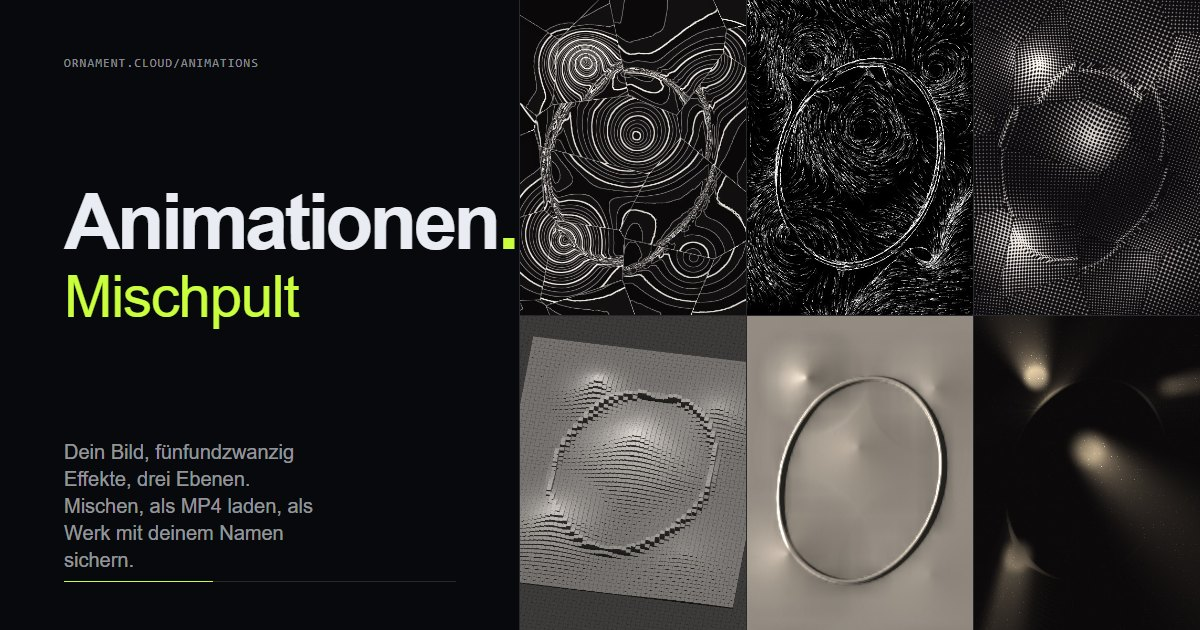
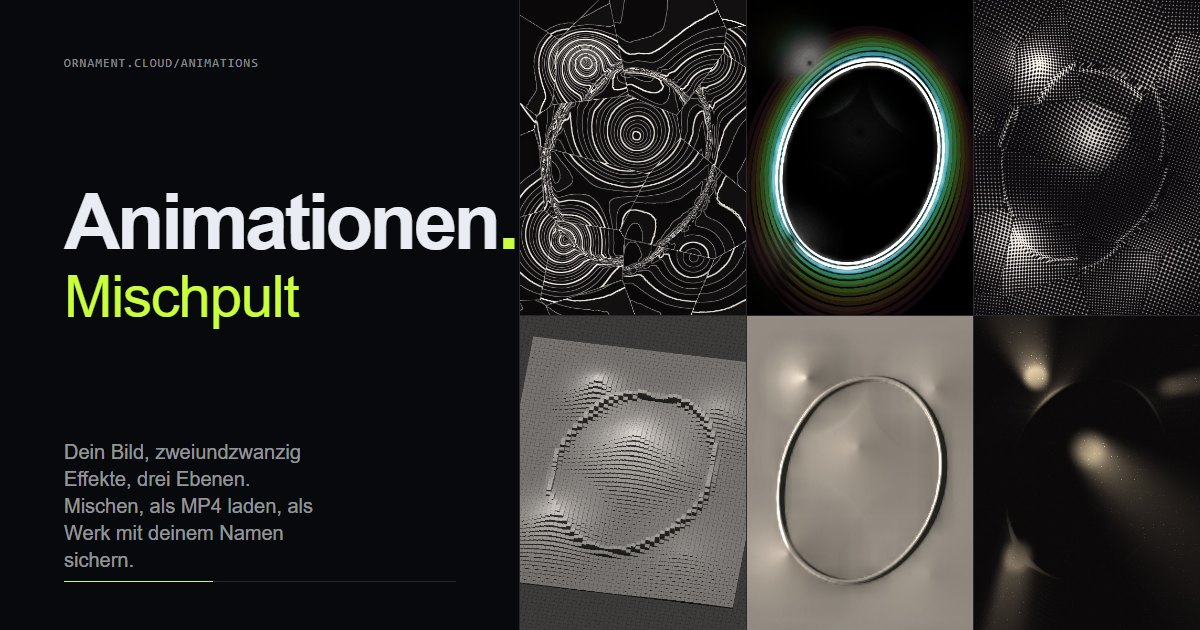
Animationen: Traube, Physarum und Strömung entfernt
Wunsch vom 5. November 2026: «weg können traube, physarum (nicht: physarum-struktur), strömung». Physarum-Struktur bleibt. 22 Effekte;
Zahl in Kopfzeile, Info, Meta und Vorschaukarte auf zweiundzwanzig, Vorschaukarte neu gerechnet (Echo statt Strömung als Kachel),
Tests auf 22, Versionsmarke ?v=18 (baut auf #640 mit ?v=17 auf).

Changed region(s): [[0.6167, 0.0, 0.8325, 0.5127], [0.1233, 0.6937, 0.2467, 0.754]]

diff --git a/animations/effekte.js b/animations/effekte.js
@@ -277,6 +277,7 @@ export const EFFEKTE = {
   // Metaballs, Wirbel, Linien, Tuscheblasen, Glaslinsen, Röntgen-Scan und Papierriss entfernt am 5. November 2026
   // (Wunsch: «also wir nehme jetzt wieder raus: metaballs, wirbel, linien, tuscheblasen, glaslinsen, röntgenstrahl, papierriss»)
   // Alkoholtinte entfernt am 5. November 2026 (Wunsch: «alkoholtine kann raus»)
+  // Traube, Physarum und Strömung entfernt am 5. November 2026 (Wunsch: «weg können traube, physarum (nicht: physarum-struktur), strömung»)
 
   raster: {
     name: "Druckraster", herkunft: "Halbton: vier gedrehte Raster wie im Offsetdruck, Punkte verschmelzen als Distanzfelder im Dunkeln und atmen in Wellen",
@@ -376,37 +377,6 @@ vec4 effekt(vec2 uv){
 }`,
   },
 
-  stroemung: {
-    name: "Strömung", herkunft: "Flow Field: Lichtteilchen ziehen mit Schweif den Konturen des Bildes nach, wo Kanten sind, sammeln sie sich",
-    regler: [r("Dichte", .5), r("Tempo", .4), r("Punktgrösse", .35), r("Wirbel", .3), r("Kanten", .6)],
-    mischung: "add",
-    // die Zahl der Teilchen folgt der Bildhöhe (kleine Vorschauen rechnen weniger), je Teilchen acht Punkte für den Schweif
-    punkte: (w, a, h, d = 1) => { const c = Math.max(d < 1 ? 24 : 40, Math.round((110 + 100 * w[0]) * Math.sqrt(Math.min(1, h / 1000) * d))); return { cols: c * 8, rows: Math.round(c / a) }; },
-    glsl: `${FELD}
-void punkt(int id, out vec2 pos, out vec4 col, out float size){
-  float i = float(id), cx = uCols / 8., xx = mod(i, uCols), j = mod(xx, 8.);
-  vec2 g = vec2(floor(xx / 8.), floor(i / uCols));
-  float h = h12(g * 1.31 + uSeed), m = 2. + floor(P1 * 2.999);           // zwei bis vier Leben pro Schlaufe
-  float zz = uT * m + h, u = fract(zz), cyc = mod(floor(zz), m);         // das Leben n und n + m sind dasselbe: die Schlaufe schliesst
-  vec2 sp = (g + h22(g + cyc * 17.3 + uSeed)) / vec2(cx, uRows);
-  vec3 c0 = Kl(sp, 1.).rgb; float L0 = lum(c0), ek = length(feldG(sp, 1.5, 3.));
-  float wgt = mix(.25 + .75 * (1. - L0), smoothstep(1., 14., ek), P4);  // wo Teilchen entstehen: im Dunklen oder an Kanten
-  pos = vec2(9.); col = vec4(0.); size = 0.;
-  if (h12(g * 2.7 + cyc * 3.1 + 5.) > wgt) return;
-  float age = max(u - j * .022, 0.), steps = age * 18.;
-  vec2 q = P(sp), sl = vec2(.18 / 18.);
-  for (int k = 0; k < 18; k++){
-    float dt = clamp(steps - float(k), 0., 1.);
-    if (dt <= 0.) break;
-    q += dt * sl * strom(UV(q), 1.5, 3., P3);
-  }
-  pos = q;
-  float a = sin(PI * u) * (1. - j / 8.) * (age > 0. ? 1. : 0.);
-  vec3 c = uZeigen > .5 ? min(c0 * 1.4 + .05, 1.) : vec3(.95, .925, .9);   // ohne Bild: helles Licht, die Form kommt aus dem Bild
-  col = vec4(c * a * 1.2, a);
-  size = mix(1.5, 5., P2) * uRes.y / 1350. * (1. - j / 12.) + .6;
-}`,
-  },
   // ——— drei weitere nach Christians Stichworten vom 4. November 2026: «röntgen/laserscan, krasse montagen, absolut aktuelle prozess-visualisierung»
 
 
@@ -888,141 +858,7 @@ void punkt(int id, out vec2 pos, out vec4 col, out float size){
 }`,
   },
 
-  traube: {
-    name: "Traube", herkunft: "PHORMA III: glänzende Perlen wachsen auf den hellen Formen des Bildes zu Trauben, dazwischen ein Knäuel aus feinen Fäden, Rauch und ein wandernder Schärfenzug",
-    // seit 5. November 2026 (Christian: «beim effekt traube gibt es keine bewegung … noch etwas mehr spiegelung in den einzelnen trauben wäre toll»):
-    // das Licht kreist einmal je Schlaufe um die Trauben, sodass der Glanz über jede Perle wandert; die Perlen wiegen sich wie hängende Trauben
-    // (kleiner Kreis je Perle plus das langsame Rauschen) und wachsen bei «Hin und zurück» gestaffelt aus den Formen; jede Perle spiegelt ihre
-    // Umgebung (das Bild, gespiegelt und verkleinert), dazu ein zweiter Glanzpunkt, ein weicher Fensterfleck und ein heller Rand
-    regler: [r("Perlen", .55), r("Grösse", .6), r("Schwelle", .35), r("Fäden", .5), r("Schärfe", .35), r("Rot", .7)],
-    glsl: `vec4 effekt(vec2 uv){
-  vec2 p = P(uv); float px = 1. / uRes.y;
-  float N = mix(14., 46., P0), zf = (uLauf > .5 ? ln(vec2(2.3, 5.1), .6) : sin(uPhi)) * .9;   // die Schärfeebene zieht durch die Tiefe
-  float env = HZ(.5 - .5 * cos(uPhi));                       // Hin und zurück: die Trauben wachsen aus dem Bild und ziehen sich zurück
-  vec3 rot1 = vec3(.62, .03, .05), silber = vec3(.82, .84, .88);
-  // Licht: kreist einmal je Schlaufe, dazu ein zweites, kleineres Fensterlicht gegenüber
-  vec3 Ld = normalize(vec3(.8 * cos(uPhi), .8 * sin(uPhi) + .2, .62));
-  vec3 L2 = normalize(vec3(-.6 * cos(uPhi + 2.3), -.6 * sin(uPhi + 2.3), .95));
-  // Hintergrund: Rauch und ein Knäuel aus Fäden, dicht, wo das Bild Formen hat; die Fäden treiben auf einem kleinen Kreis durch die Schlaufe
-  vec3 k5 = Kl(uv, 5.).rgb; float form = smoothstep(.12, .55, lum(k5) + .6 * sat(k5));
-  float rauch = smoothstep(-.2, .7, lfbm(p * 2.2 + 3., .5)) * (.25 + .75 * form);
-  vec3 col = vec3(.035, .03, .035) + vec3(.07, .06, .065) * rauch;
-  if (uZeigen > .5) col += Ql(uv, 1.).rgb * .14;
-  float fd = 0.;
-  for (int l = 0; l < 3; l++){
-    if (uSparsam > .5 && l > 1) break;                      // Handy: zwei Lagen Fäden statt drei
-    float fl = float(l);
-    vec2 q = p + .18 * vec2(cos(uPhi + fl * 2.), sin(uPhi + fl * 2.));
-    float v = ln(rot(fl * 2.1) * q * (2.2 + fl * 1.3) + fl * 7., .7 + fl * .2);
-    float e = abs(v) / max(fwidth(v), 1e-4);
-    fd += (1. - smoothstep(.2, 1.1, e)) * (.55 - fl * .12);
-  }
-  col += silber * fd * P3 * (.15 + .85 * form) * .55;
-  // die Perlen: je Zelle eine, gross, wo das Bild hell oder farbig ist; nach Tiefe sortiert, hinten zuerst
-  vec2 g = p * N, ci = floor(g);
-  vec4 pl[9]; vec3 pc[9]; int n = 0;
-  for (int y = -1; y <= 1; y++) for (int x = -1; x <= 1; x++){
-    vec2 c = ci + vec2(x, y), h = h22(c + uSeed * 5.3);
-    vec3 im = Kl(UV((c + .5) / N), 2.).rgb;
-    float fo = .45 * lum(im) + (uSparsam > .5 ? .35 * lum(im) : 2.2 * abs(lum(im) - lum(Kl(UV((c + .5) / N), 5.).rgb))) + .5 * sat(im);   // Handy: ohne den zweiten Blick ins Umfeld   // Form: hell, farbig oder abgesetzt vom Umfeld
-    float th = mix(.2, .9, P2), v = smoothstep(th - .12, th + .12, fo) * step(.08, h12(c * 1.9 + 4.));   // Perlen nur auf den Formen, die Fläche bleibt frei
-    if (v < .02) continue;
-    float hr = h12(c + 7.);
-    float wach = smoothstep(h.x * .5, h.x * .5 + .4, env);  // gestaffelt: jede Perle hat ihren Moment zum Wachsen; im Durchlauf sind alle da
-    float pul = .5 + .5 * sin(uPhi * floor(1. + h.y * 2.) + h.x * TAU);
-    vec2 schwung = vec2(cos(uPhi + h.x * TAU), sin(uPhi + h.x * TAU)) * (.05 + .1 * hr);   // hängende Trauben wiegen sich, jede auf ihrem Kreis
-    vec2 m = c + .5 + (h - .5) * .7 + .2 * vec2(ln(c * .3, .8), ln(c * .3 + 4., .8)) + schwung;
-    float R = min((.22 + .5 * hr * hr) * mix(.6, 1.5, P1) * (.55 + .45 * v) * (1. + .14 * pul), .95) * mix(.2, 1., wach);   // der Puls lässt sie schwellen
-    float z = (h.y - .5) * 2.4 + (lum(im) - .5) * .8;
-    pl[n] = vec4(m, R, z); pc[n] = im; n++;
-  }
-  for (int a = 0; a < 9; a++) for (int b = 0; b < 8; b++){
-    if (b + 1 >= n) break;
-    if (pl[b].w > pl[b + 1].w){ vec4 t = pl[b]; pl[b] = pl[b + 1]; pl[b + 1] = t; vec3 tc = pc[b]; pc[b] = pc[b + 1]; pc[b + 1] = tc; }
-  }
-  for (int k = 0; k < 9; k++){
-    if (k >= n) break;
-    vec2 d = g - pl[k].xy; float R = pl[k].z, dd = length(d);
-    float bl = abs(pl[k].w - zf) * (1. - P4) * .55 * R + N * px * 1.2;   // Tiefenschärfe: unscharf vor und hinter der Ebene
-    float cov = (1. - smoothstep(R - bl, R + bl, dd)) * R * R / ((R + bl * .5) * (R + bl * .5));
-    if (cov < .002) continue;
-    vec2 e = d / R; float r2 = min(dot(e, e), .999);
-    vec3 nn = vec3(e, sqrt(1. - r2));
-    vec3 basis = uZeigen > .5 ? mix(pc[k] / max(max(pc[k].r, max(pc[k].g, pc[k].b)), .1) * .7, rot1, P5) : mix(silber * .55, rot1, P5);
-    float dif = max(dot(nn, Ld), 0.);
-    vec3 rv = reflect(vec3(0., 0., -1.), nn);              // Blickrichtung an der Perle gespiegelt
-    float fres = pow(1. - nn.z, 3.5);                      // am Rand spiegelt Glas am stärksten, der Saum bleibt schmal
-    // Spiegelung der Umgebung: das Bild erscheint verkleinert und gespiegelt in jeder Perle (mit «Bild zeigen: aus» nur der Grund)
-    vec3 umg = Ql(UV((pl[k].xy + rv.xy * R * 1.6) / N), 1.5).rgb;
-    float sp = pow(max(dot(reflect(-Ld, nn), vec3(0., 0., 1.)), 0.), 64.);   // scharfer Glanzpunkt des wandernden Lichts
-    float sp2 = pow(max(dot(reflect(-L2, nn), vec3(0., 0., 1.)), 0.), 24.);  // zweites, weicheres Licht
-    float gl = pow(max(dot(reflect(-Ld, nn), vec3(0., 0., 1.)), 0.), 5.);
-    vec2 fw = (nn.xy - Ld.xy * .45) * rot(.7) / vec2(.42, .2);
-    float fenster = exp(-dot(fw, fw) * 1.8) * (.6 + .4 * nn.z);   // ein länglicher, weicher Lichtfleck wie ein Fenster im Glas
-    vec3 tinte = mix(vec3(1.), basis / max(max(basis.r, max(basis.g, basis.b)), .1), .55);   // die Spiegelung trägt die Farbe der Traube, sonst wirkt sie wie eine Seifenblase
-    vec3 pcol = basis * (.1 + .85 * dif) + basis * fres * .8 + silber * fres * .2
-      + umg * tinte * (.28 + .7 * fres) * (uZeigen > .5 ? 1. : .5)
-      + vec3(1.) * (sp * 1.8 + sp2 * .55 + gl * .14 + fenster * .38);
-    pcol *= mix(1., .55, smoothstep(0., .6, bl / R));       // unscharfe Perlen werden weicher und dunkler
-    col = mix(col, pcol, cov);
-  }
-  return vec4(clamp(col, 0., 1.), 1.);
-}`,
-  },
 
-  physarum: {
-    name: "Physarum", herkunft: "PHORMA II: tausende Agenten eines Schleimpilzes riechen die Nahrung im Bild (Helligkeit und Kanten) und legen ein leuchtendes Netz auf seine Formen",
-    // ruhiger seit 5. November 2026 (Christian: «Das physarum ist mir viel zu nervös»): die Agenten werden nicht mehr geboren und gelöscht,
-    // jeder Pfad steht und wandelt sich nur langsam (das Rauschen läuft auf einem kleinen Kreis durch die Zeit), Licht gleitet ruhig an ihm entlang,
-    // und das Netz wächst sanft aus den Keimen und zieht sich wieder zurück; «Tempo» regelt beides
-    regler: [r("Agenten", .5), r("Spur", .6), r("Nahrung", .7), r("Wandern", .3), r("Glühen", .5), r("Tempo", .2)],
-    mischung: "add", weich: true,
-    // je Agent 40 Punkte Spur; die Zahl folgt der Bildhöhe wie bei der Strömung. d: Dichte, auf Handys kleiner (motor.js, DICHTE_SPARSAM):
-    // die Physarum-Agenten tasten je Schritt neun Mal das Bild ab, mit allen Agenten hat das am 5. November 2026 die Grafik eines Handys umgeworfen
-    punkte: (w, a, h, d = 1) => { const c = Math.max(d < 1 ? 16 : 24, Math.round((40 + 50 * w[0]) * Math.sqrt(Math.min(1, h / 1000) * d))); return { cols: c * 40, rows: Math.round(c / a) }; },
-    glsl: `float nahrung(vec2 uv){
-  vec3 c = Kl(uv, 3.).rgb; float L = lum(c);
-  if (uSparsam > .5) return L;                              // Handy: nur die Helligkeit, ein Blick statt drei je Fühler
-  vec3 c2 = Kl(uv, 1.5).rgb, c3 = Kl(uv, 4.5).rgb;
-  return mix(L, abs(lum(c2) - lum(c3)) * 3. + L * .3, .45);   // hell und kantig ist Nahrung
-}
-void punkt(int id, out vec2 pos, out vec4 col, out float size){
-  float i = float(id), xx = mod(i, uCols), j = mod(xx, 40.), cx = uCols / 40.;
-  vec2 g = vec2(floor(xx / 40.), floor(i / uCols));
-  float h = h12(g * 1.71 + uSeed);
-  vec2 sp = (g + h22(g + uSeed)) / vec2(cx, uRows);          // jeder Agent hat seinen festen Keim
-  float S = mix(25., 70., P1), schritt = (j + .5) / 40. * S;  // die 40 Punkte liegen fest auf dem Pfad
-  float wachsen = mix(.3, 1., HZ(.5 - .5 * cos(uPhi)));       // das Netz wächst ruhig aus den Keimen und zieht sich zurück
-  float spitze = 1. - smoothstep(wachsen * S - 6., wachsen * S, schritt);
-  pos = vec2(9.); col = vec4(0.); size = 0.;
-  if (spitze <= 0.) return;
-  vec2 q = P(sp), dir = normalize(h22(g + 3.) - .5 + 1e-4);
-  float st = .0065, rz = mix(.04, .3, P5);                    // rz: wie schnell sich die Pfade wandeln
-  for (int k = 0; k < 70; k++){
-    float dt = clamp(schritt - float(k), 0., 1.);
-    if (dt <= 0.) break;
-    vec2 uq = UV(q);                                        // drei Fühler: geradeaus, links, rechts; drehen zum stärksten Geruch
-    float a0 = atan(dir.y, dir.x), sa = .55;
-    float F = nahrung(uq + vec2(cos(a0), sin(a0)) * .02 / vec2(A(), 1.));
-    float Lf = nahrung(uq + vec2(cos(a0 + sa), sin(a0 + sa)) * .02 / vec2(A(), 1.));
-    float Rf = nahrung(uq + vec2(cos(a0 - sa), sin(a0 - sa)) * .02 / vec2(A(), 1.));
-    float dreh = (Lf - Rf) * 14. * P2 + ln(q * 2. + 3.1, rz) * 1.2 * P3;
-    a0 += clamp(dreh, -.45, .45);                           // sanfte Kurven statt Zacken
-    dir = vec2(cos(a0), sin(a0));
-    q += dir * st * dt * (.7 + .6 * F);
-  }
-  pos = q;
-  float nf = nahrung(UV(q)), m = 1. + floor(P5 * 2.99);
-  float fluss = .7 + .3 * sin(TAU * (j / 40. * 2. - uT * m) + h * TAU);   // langsamer Plasmastrom entlang des Pfads
-  float a = spitze * fluss * smoothstep(0., 4., schritt) * (.25 + .75 * smoothstep(.1, .6, nf));
-  vec3 gold = vec3(1., .78, .3);
-  vec3 c = uZeigen > .5 ? mix(gold, min(Kl(UV(q), 1.).rgb * 1.6 + .06, 1.), .7) : gold;   // ohne Bild: das gelbe Netz, die Formen kommen aus dem Bild
-  float ab = S / 40. * st * uRes.y, sz = max(mix(1.6, 3.6, P4) * uRes.y / 1350. + .6, ab * 3.);   // weiche Punkte, dicht genug für eine glatte Linie
-  float al = a * (.035 + .07 * P4) * min(1., 2.5 * max(ab, 1.) / sz);   // alle Agenten leuchten zugleich: jeder nur leise, das Netz entsteht, wo viele Pfade zusammenlaufen
-  col = vec4(c * al * 1.4, al);
-  size = sz;
-}`,
-  },
   geflecht: {
     name: "Physarum-Struktur", herkunft: "PHORMA II weitergedacht: der Schleimpilz als Struktur statt als Spur – Netz, Adern, Zellen oder Membran, je dichter, wo das Bild Nahrung bietet",
     // Wunsch vom 5. November 2026: «varianten der strukturbildung …, nicht nur diese leuchten spuren»; der Regler «Struktur» geht von Netz (0)

diff --git a/animations/index.html b/animations/index.html
@@ -23,20 +23,20 @@ Steht für sich wie PHORMA (Ausnahme in tests/navigation.test.mjs), noindex, nic
 Rechnet alles im Browser (WebGL 2, motor.js), das MP4 (1080 × 1350, 30 fps, 12 s, nahtlose Schlaufe) mit WebCodecs und mp4-muxer aus vendor/.
 -->
 <meta name="robots" content="noindex">
-<meta name="description" content="Dein Bild, fünfundzwanzig Effekte, drei Ebenen: Animationen mischen, als MP4 laden und als Werk mit deinem Namen sichern.">
+<meta name="description" content="Dein Bild, zweiundzwanzig Effekte, drei Ebenen: Animationen mischen, als MP4 laden und als Werk mit deinem Namen sichern.">
 <meta property="og:type" content="website">
 <meta property="og:site_name" content="ornament.cloud">
 <meta property="og:locale" content="de_CH">
 <meta property="og:url" content="https://ornament.cloud/animations/">
 <meta property="og:title" content="Animationen">
-<meta property="og:description" content="Dein Bild, fünfundzwanzig Effekte, drei Ebenen: Animationen mischen, als MP4 laden und als Werk mit deinem Namen sichern.">
+<meta property="og:description" content="Dein Bild, zweiundzwanzig Effekte, drei Ebenen: Animationen mischen, als MP4 laden und als Werk mit deinem Namen sichern.">
 <meta property="og:image" content="https://ornament.cloud/animations/og-animationen.jpg">
 <meta property="og:image:width" content="1200">
 <meta property="og:image:height" content="630">
 <meta property="og:image:alt" content="Animationen auf ornament.cloud: links das Wort «Animationen» mit gelbgrünem Punkt, rechts sechs Effekte aus Höhenlinien, Strömung, Druckraster und Voxeln auf Schwarz.">
 <meta name="twitter:card" content="summary_large_image">
 <meta name="twitter:title" content="Animationen">
-<meta name="twitter:description" content="Dein Bild, fünfundzwanzig Effekte, drei Ebenen: Animationen mischen, als MP4 laden und als Werk mit deinem Namen sichern.">
+<meta name="twitter:description" content="Dein Bild, zweiundzwanzig Effekte, drei Ebenen: Animationen mischen, als MP4 laden und als Werk mit deinem Namen sichern.">
 <meta name="twitter:image" content="https://ornament.cloud/animations/og-animationen.jpg">
 <meta name="color-scheme" content="dark light">
 <meta name="theme-color" content="#08090c" media="(prefers-color-scheme: dark)">
@@ -288,7 +288,7 @@ input[type="range"]:focus-visible { outline: none; }
 <header class="kopf">
   <div class="kopf-innen">
     <a class="marke" href="../">ornament<span class="punkt">.</span>cloud</a>
-    <p class="zeile">Animationen <span class="leise">— dein Bild, fünfundzwanzig Effekte, drei Ebenen</span></p>
+    <p class="zeile">Animationen <span class="leise">— dein Bild, zweiundzwanzig Effekte, drei Ebenen</span></p>
     <p class="kurz">Animationen</p>
     <nav class="ansichten" aria-label="Ansicht">
       <button type="button" data-ansicht="mischpult" aria-pressed="true"><small>01</small>Mischpult</button>
@@ -357,7 +357,7 @@ input[type="range"]:focus-visible { outline: none; }
   </section>
 
   <section id="info" class="ansicht" aria-label="Info" hidden>
-    <p class="gross">Dein Bild, fünfundzwanzig Effekte,<br>bis zu drei <i>Ebenen</i> übereinander.</p>
+    <p class="gross">Dein Bild, zweiundzwanzig Effekte,<br>bis zu drei <i>Ebenen</i> übereinander.</p>
     <dl class="kolophon">
       <div><dt>Technik</dt><dd>WebGL 2 im Browser, jeder Effekt ein Shader. MP4 mit WebCodecs in 4:5, 1:1 oder 16:9, 30 Bilder pro Sekunde.</dd></div>
       <div><dt>Schlaufe</dt><dd>12, 30 oder 60 Sekunden, nahtlos: das letzte Bild geht ins erste über.</dd></div>
@@ -396,6 +396,6 @@ input[type="range"]:focus-visible { outline: none; }
 </div></footer>
 
 <div class="export" id="export" hidden role="status"><div class="export-zeile"><span id="export-text">MP4 · 0 %</span><button type="button" id="export-stop">Abbrechen</button></div><div class="fortschritt" aria-hidden="true"><i></i></div></div>
-<script type="module" src="seite.js?v=17"></script>   <!-- Versionsmarke: bei Änderungen an den Modulen hier und in allen Importen hochzählen (Zwischenspeicher 10 Minuten, .htaccess) -->
+<script type="module" src="seite.js?v=18"></script>   <!-- Versionsmarke: bei Änderungen an den Modulen hier und in allen Importen hochzählen (Zwischenspeicher 10 Minuten, .htaccess) -->
 </body>
 </html>

diff --git a/animations/seite.js b/animations/seite.js
@@ -1,9 +1,9 @@
 // Animationen – die Seite: Mischpult (das eigene Bild, Grund, drei Ebenen, Schalter, Sichern) mit den gesicherten Werken darunter
 // (gestreutes Raster, beim Darüberfahren lebendig, Klick lädt ins Mischpult) und Info. Ein Motor zeichnet für alles; die sichtbare
 // Leinwand übernimmt sein Bild. Seit 4. November 2026 ohne Reel, Beispielbilder und vorgefertigte Werke.
-import { motorErstellen, videoErstellen, DAUER, LAENGEN, MODI } from "./motor.js?v=17";
-import { EFFEKTE, EFFEKT_IDS, stufe, wertVon } from "./effekte.js?v=17";
-import { zufall, EIGEN } from "./rezepte.js?v=17";
+import { motorErstellen, videoErstellen, DAUER, LAENGEN, MODI } from "./motor.js?v=18";
+import { EFFEKTE, EFFEKT_IDS, stufe, wertVon } from "./effekte.js?v=18";
+import { zufall, EIGEN } from "./rezepte.js?v=18";
 
 const $ = (id) => document.getElementById(id);
 const el = (tag, attr = {}, ...kinder) => {

diff --git a/animations/rezepte.js b/animations/rezepte.js
@@ -1,7 +1,7 @@
 // Animationen – «Neu mischen»: eine zufällige Mischung aus den Effekten für das eigene Bild. Seit 4. November 2026 ohne Beispielbilder
 // und ohne vorgefertigte Werke (Wunsch: «keine beispielbilder»): jedes Werk bringt sein Bild mit, gesichert werden sie in werke.php.
-import { EFFEKTE, EFFEKT_IDS } from "./effekte.js?v=17";
-import { MODI } from "./motor.js?v=17";
+import { EFFEKTE, EFFEKT_IDS } from "./effekte.js?v=18";
+import { MODI } from "./motor.js?v=18";
 
 /** das eigene Bild im Mischpult: hochgeladen oder auf die Bühne gezogen, bleibt im Browser, bis das Werk gesichert wird */
 export const EIGEN = "eigen";

diff --git a/animations/motor.js b/animations/motor.js
@@ -1,7 +1,7 @@
 // Animationen – der Motor: ein WebGL-2-Kontext rechnet bis zu drei Ebenen übereinander (je Effekt, Quelle, Mischmodus, Deckkraft)
 // und gibt das Bild auf eine eigene Leinwand aus, die Reel, Werke und Mischpult abzeichnen. Alles hängt nur von der Zeit t in der
 // Schlaufe ab (phi = 2π·t/DAUER, ganzzahlige Frequenzen): Bild N ist wieder Bild 0, und das MP4 entsteht Bild für Bild.
-import { EFFEKTE, wertVon } from "./effekte.js?v=17";
+import { EFFEKTE, wertVon } from "./effekte.js?v=18";
 
 export const DAUER = 12, FPS = 30, LAENGEN = [12, 30, 60];
 /** Länge der Schlaufe eines Stapels in Sekunden (Vorgabe 12) */
